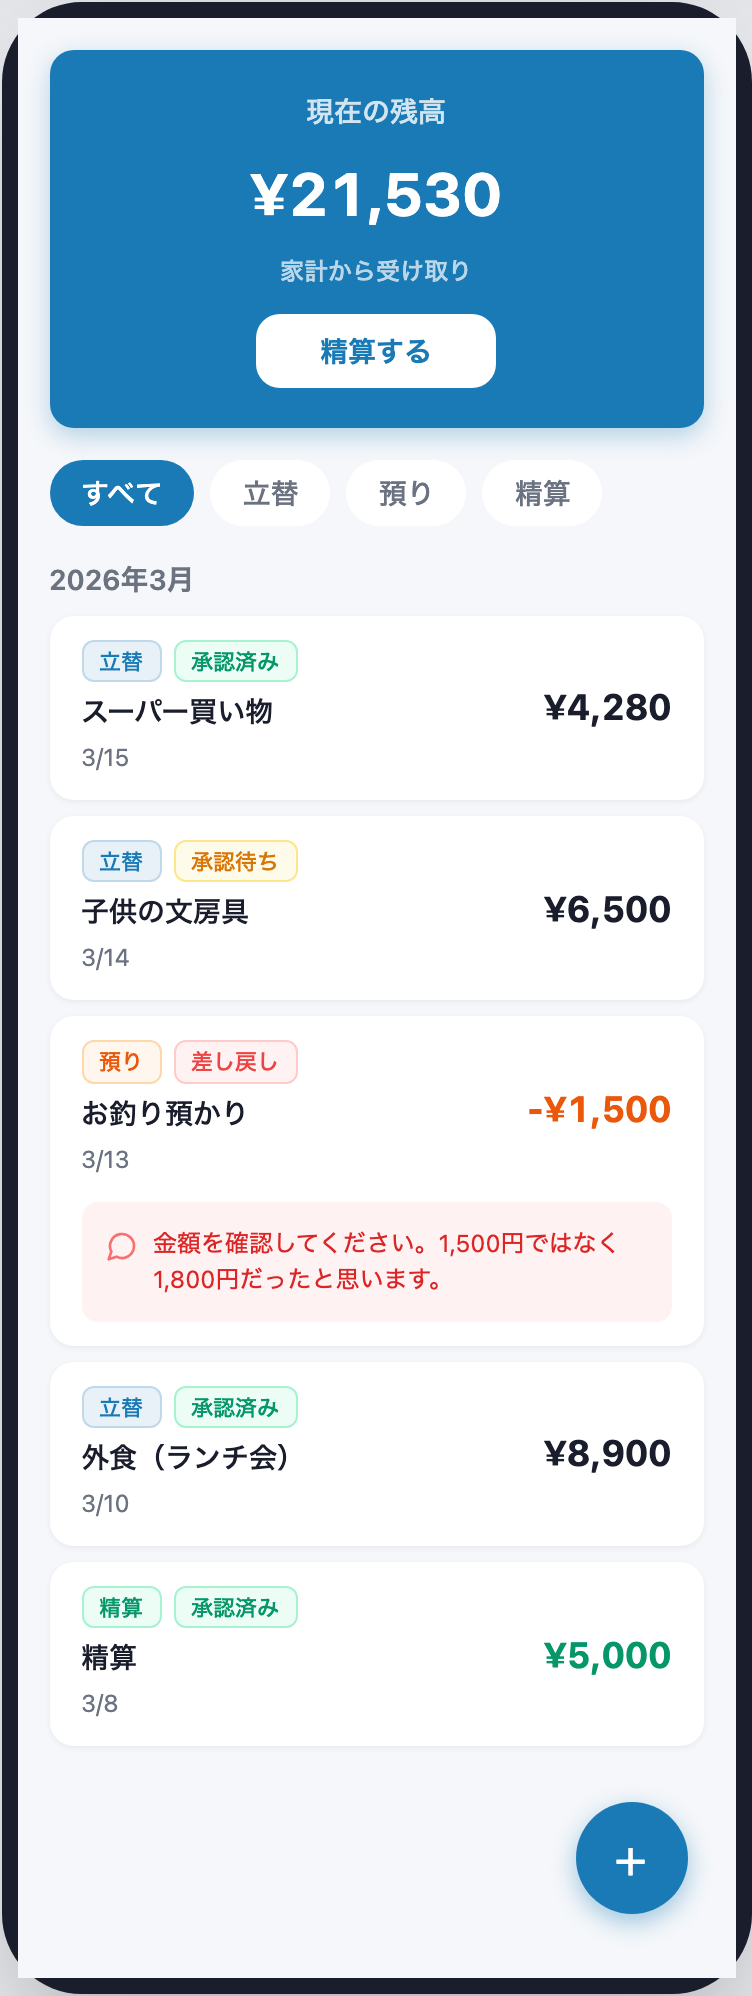
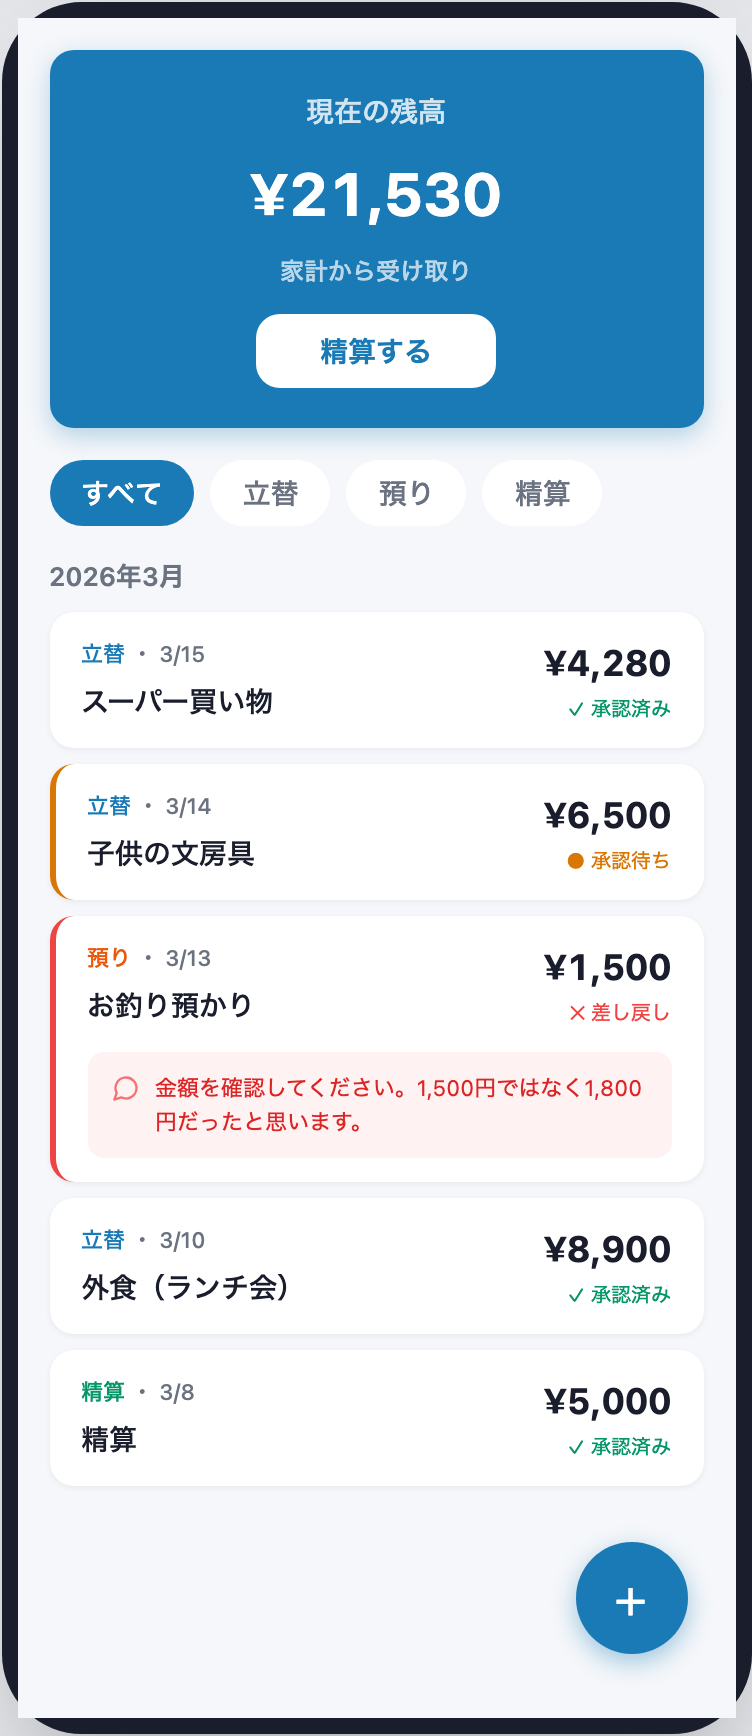
預り金額のマイナス表示を全画面で削除、管理モードタイムラインをリデザイン
- 全画面の預り金額から「-」プレフィックスを削除（仕様: 金額は常に正）
- 管理モードのユーザータイムライン(04)をリデザイン:
  - バッジ廃止 → タイプはテキスト色(立替=青, 預り=橙, 精算=緑)で表現
  - 承認ステータスは金額右下に小さなインジケーター(✓承認済み/●承認待ち/✕差し戻し)
  - 承認待ち/差し戻しカードに左ボーダーで視覚的な区別
  - 差し戻しコメントはカード内にインラインで表示

diff --git a/docs/v0_design/mockups.html b/docs/v0_design/mockups.html
@@ -552,7 +552,7 @@ tailwind.config = {
           <span style="font-size: 14px; font-weight: 500; color: #1a1e2c;">お釣り預かり</span>
           <span style="font-size: 12px; color: #6b7280;">3/13</span>
         </div>
-        <span class="tabular-nums" style="font-size: 18px; font-weight: 700; color: #ea580c;">-&#165;1,500</span>
+        <span class="tabular-nums" style="font-size: 18px; font-weight: 700; color: #ea580c;">&#165;1,500</span>
       </div>
       <!-- Entry 4 -->
       <div class="entry-card">
@@ -628,7 +628,7 @@ tailwind.config = {
           <span style="font-size: 14px; font-weight: 500; color: #1a1e2c;">図書カード預かり</span>
           <span style="font-size: 12px; color: #6b7280;">2/20</span>
         </div>
-        <span class="tabular-nums" style="font-size: 18px; font-weight: 700; color: #ea580c; text-decoration: line-through; opacity: 0.5;">-&#165;2,000</span>
+        <span class="tabular-nums" style="font-size: 18px; font-weight: 700; color: #ea580c; text-decoration: line-through; opacity: 0.5;">&#165;2,000</span>
       </div>
     </div>
     <!-- FAB -->
@@ -657,73 +657,68 @@ tailwind.config = {
     </div>
     <!-- 2026年3月 -->
     <div style="padding: 16px; display: flex; flex-direction: column; gap: 8px;">
-      <h3 style="font-size: 14px; font-weight: 600; color: #6b7280; margin: 0;">2026年3月</h3>
+      <h3 style="font-size: 13px; font-weight: 600; color: #6b7280; margin: 0;">2026年3月</h3>
       <!-- Entry 1 approved -->
       <div class="entry-card">
         <div style="flex: 1; display: flex; flex-direction: column; gap: 4px;">
-          <div style="display: flex; align-items: center; gap: 6px;">
-            <span class="badge badge-advance">立替</span>
-            <span class="badge badge-approved">承認済み</span>
-          </div>
+          <span style="font-size: 11px; font-weight: 500;"><span style="color: #1a7ab5;">立替</span><span style="color: #6b7280;"> ・ 3/15</span></span>
           <span style="font-size: 14px; font-weight: 500; color: #1a1e2c;">スーパー買い物</span>
-          <span style="font-size: 12px; color: #6b7280;">3/15</span>
         </div>
-        <span class="tabular-nums" style="font-size: 18px; font-weight: 700; color: #1a1e2c;">&#165;4,280</span>
+        <div style="display: flex; flex-direction: column; align-items: flex-end; gap: 2px;">
+          <span class="tabular-nums" style="font-size: 18px; font-weight: 700; color: #1a1e2c;">&#165;4,280</span>
+          <span style="font-size: 10px; color: #059669;">&#10003; 承認済み</span>
+        </div>
       </div>
       <!-- Entry 2 pending -->
-      <div class="entry-card">
+      <div class="entry-card" style="border-left: 3px solid #d97706;">
         <div style="flex: 1; display: flex; flex-direction: column; gap: 4px;">
-          <div style="display: flex; align-items: center; gap: 6px;">
-            <span class="badge badge-advance">立替</span>
-            <span class="badge badge-pending">承認待ち</span>
-          </div>
+          <span style="font-size: 11px; font-weight: 500;"><span style="color: #1a7ab5;">立替</span><span style="color: #6b7280;"> ・ 3/14</span></span>
           <span style="font-size: 14px; font-weight: 500; color: #1a1e2c;">子供の文房具</span>
-          <span style="font-size: 12px; color: #6b7280;">3/14</span>
         </div>
-        <span class="tabular-nums" style="font-size: 18px; font-weight: 700; color: #1a1e2c;">&#165;6,500</span>
+        <div style="display: flex; flex-direction: column; align-items: flex-end; gap: 2px;">
+          <span class="tabular-nums" style="font-size: 18px; font-weight: 700; color: #1a1e2c;">&#165;6,500</span>
+          <span style="font-size: 10px; color: #d97706;">&#9679; 承認待ち</span>
+        </div>
       </div>
       <!-- Entry 3 rejected with comment -->
-      <div style="background: white; border-radius: 12px; box-shadow: 0 1px 3px rgba(0,0,0,0.06); overflow: hidden;">
+      <div style="background: white; border-radius: 12px; box-shadow: 0 1px 3px rgba(0,0,0,0.06); overflow: hidden; border-left: 3px solid #ef4444;">
         <div style="padding: 12px 16px; display: flex; align-items: center; gap: 12px;">
           <div style="flex: 1; display: flex; flex-direction: column; gap: 4px;">
-            <div style="display: flex; align-items: center; gap: 6px;">
-              <span class="badge badge-deposit">預り</span>
-              <span class="badge badge-rejected">差し戻し</span>
-            </div>
+            <span style="font-size: 11px; font-weight: 500;"><span style="color: #ea580c;">預り</span><span style="color: #6b7280;"> ・ 3/13</span></span>
             <span style="font-size: 14px; font-weight: 500; color: #1a1e2c;">お釣り預かり</span>
-            <span style="font-size: 12px; color: #6b7280;">3/13</span>
           </div>
-          <span class="tabular-nums" style="font-size: 18px; font-weight: 700; color: #ea580c;">-&#165;1,500</span>
+          <div style="display: flex; flex-direction: column; align-items: flex-end; gap: 2px;">
+            <span class="tabular-nums" style="font-size: 18px; font-weight: 700; color: #1a1e2c;">&#165;1,500</span>
+            <span style="font-size: 10px; color: #ef4444;">&#10005; 差し戻し</span>
+          </div>
         </div>
         <!-- Rejection comment -->
-        <div style="margin: 0 16px 12px; background: #fef2f2; border-radius: 8px; padding: 12px; display: flex; align-items: flex-start; gap: 8px;">
-          <svg width="16" height="16" viewBox="0 0 24 24" fill="none" stroke="#f87171" stroke-width="2" stroke-linecap="round" stroke-linejoin="round" style="flex-shrink: 0; margin-top: 2px;"><path d="M7.9 20A9 9 0 1 0 4 16.1L2 22Z"/></svg>
-          <p style="font-size: 12px; color: #dc2626; margin: 0; line-height: 1.5;">金額を確認してください。1,500円ではなく1,800円だったと思います。</p>
+        <div style="margin: 0 16px 12px; background: #fef2f2; border-radius: 8px; padding: 10px 12px; display: flex; align-items: flex-start; gap: 8px;">
+          <svg width="14" height="14" viewBox="0 0 24 24" fill="none" stroke="#f87171" stroke-width="2" stroke-linecap="round" stroke-linejoin="round" style="flex-shrink: 0; margin-top: 1px;"><path d="M7.9 20A9 9 0 1 0 4 16.1L2 22Z"/></svg>
+          <p style="font-size: 11px; color: #dc2626; margin: 0; line-height: 1.5;">金額を確認してください。1,500円ではなく1,800円だったと思います。</p>
         </div>
       </div>
       <!-- Entry 4 approved -->
       <div class="entry-card">
         <div style="flex: 1; display: flex; flex-direction: column; gap: 4px;">
-          <div style="display: flex; align-items: center; gap: 6px;">
-            <span class="badge badge-advance">立替</span>
-            <span class="badge badge-approved">承認済み</span>
-          </div>
+          <span style="font-size: 11px; font-weight: 500;"><span style="color: #1a7ab5;">立替</span><span style="color: #6b7280;"> ・ 3/10</span></span>
           <span style="font-size: 14px; font-weight: 500; color: #1a1e2c;">外食（ランチ会）</span>
-          <span style="font-size: 12px; color: #6b7280;">3/10</span>
         </div>
-        <span class="tabular-nums" style="font-size: 18px; font-weight: 700; color: #1a1e2c;">&#165;8,900</span>
+        <div style="display: flex; flex-direction: column; align-items: flex-end; gap: 2px;">
+          <span class="tabular-nums" style="font-size: 18px; font-weight: 700; color: #1a1e2c;">&#165;8,900</span>
+          <span style="font-size: 10px; color: #059669;">&#10003; 承認済み</span>
+        </div>
       </div>
       <!-- Entry 5 settlement approved -->
       <div class="entry-card">
         <div style="flex: 1; display: flex; flex-direction: column; gap: 4px;">
-          <div style="display: flex; align-items: center; gap: 6px;">
-            <span class="badge badge-settlement">精算</span>
-            <span class="badge badge-approved">承認済み</span>
-          </div>
+          <span style="font-size: 11px; font-weight: 500;"><span style="color: #059669;">精算</span><span style="color: #6b7280;"> ・ 3/8</span></span>
           <span style="font-size: 14px; font-weight: 500; color: #1a1e2c;">精算</span>
-          <span style="font-size: 12px; color: #6b7280;">3/8</span>
         </div>
-        <span class="tabular-nums" style="font-size: 18px; font-weight: 700; color: #059669;">&#165;5,000</span>
+        <div style="display: flex; flex-direction: column; align-items: flex-end; gap: 2px;">
+          <span class="tabular-nums" style="font-size: 18px; font-weight: 700; color: #1a1e2c;">&#165;5,000</span>
+          <span style="font-size: 10px; color: #059669;">&#10003; 承認済み</span>
+        </div>
       </div>
     </div>
     <!-- FAB -->
@@ -867,7 +862,7 @@ tailwind.config = {
           <span class="badge badge-cancelled">取消</span>
         </div>
         <div style="text-align: center; margin-bottom: 16px;">
-          <span class="tabular-nums" style="font-size: 30px; font-weight: 700; color: #ea580c; text-decoration: line-through; opacity: 0.5;">-&#165;2,000</span>
+          <span class="tabular-nums" style="font-size: 30px; font-weight: 700; color: #ea580c; text-decoration: line-through; opacity: 0.5;">&#165;2,000</span>
         </div>
         <div class="separator" style="margin-bottom: 16px;"></div>
         <div style="display: flex; flex-direction: column; gap: 12px;">
@@ -890,7 +885,7 @@ tailwind.config = {
               <span style="font-size: 12px; color: #6b7280;">2026年2月20日</span>
               <span style="font-size: 14px; font-weight: 500; color: #1a1e2c;">図書カード預かり</span>
             </div>
-            <span class="tabular-nums" style="font-size: 14px; font-weight: 700; color: #ea580c;">-&#165;2,000</span>
+            <span class="tabular-nums" style="font-size: 14px; font-weight: 700; color: #ea580c;">&#165;2,000</span>
           </div>
           <div style="background: rgba(233,240,245,0.5); border-radius: 8px; padding: 8px 12px; display: flex; align-items: center; justify-content: space-between;">
             <div style="display: flex; flex-direction: column; gap: 2px;">
@@ -900,7 +895,7 @@ tailwind.config = {
               </div>
               <span style="font-size: 14px; font-weight: 500; color: #1a1e2c;">図書カード預かり</span>
             </div>
-            <span class="tabular-nums" style="font-size: 14px; font-weight: 700; text-decoration: line-through; opacity: 0.5;">-&#165;2,000</span>
+            <span class="tabular-nums" style="font-size: 14px; font-weight: 700; text-decoration: line-through; opacity: 0.5;">&#165;2,000</span>
           </div>
         </div>
       </div>
@@ -1084,7 +1079,7 @@ tailwind.config = {
           <span style="font-size: 14px; font-weight: 500; color: #1a1e2c;">ATM引き出し預かり</span>
           <span style="font-size: 12px; color: #6b7280;">3/10</span>
         </div>
-        <span class="tabular-nums" style="font-size: 18px; font-weight: 700; color: #ea580c;">-&#165;5,000</span>
+        <span class="tabular-nums" style="font-size: 18px; font-weight: 700; color: #ea580c;">&#165;5,000</span>
       </div>
       <div class="entry-card">
         <div style="flex: 1; display: flex; flex-direction: column; gap: 4px;">
@@ -1176,7 +1171,7 @@ tailwind.config = {
             <span style="font-size: 11px; font-weight: 500;"><span style="color: #ea580c;">預り</span><span style="color: #6b7280;"> ・ 3/10</span></span>
             <span style="font-size: 14px; font-weight: 500; color: #1a1e2c;">ATM引き出し預かり</span>
           </div>
-          <span class="tabular-nums" style="font-size: 18px; font-weight: 700; color: #1a1e2c;">-&#165;5,000</span>
+          <span class="tabular-nums" style="font-size: 18px; font-weight: 700; color: #1a1e2c;">&#165;5,000</span>
         </div>
         <div class="entry-card" style="opacity: 0.75;">
           <div style="flex: 1; display: flex; flex-direction: column; gap: 4px;">
